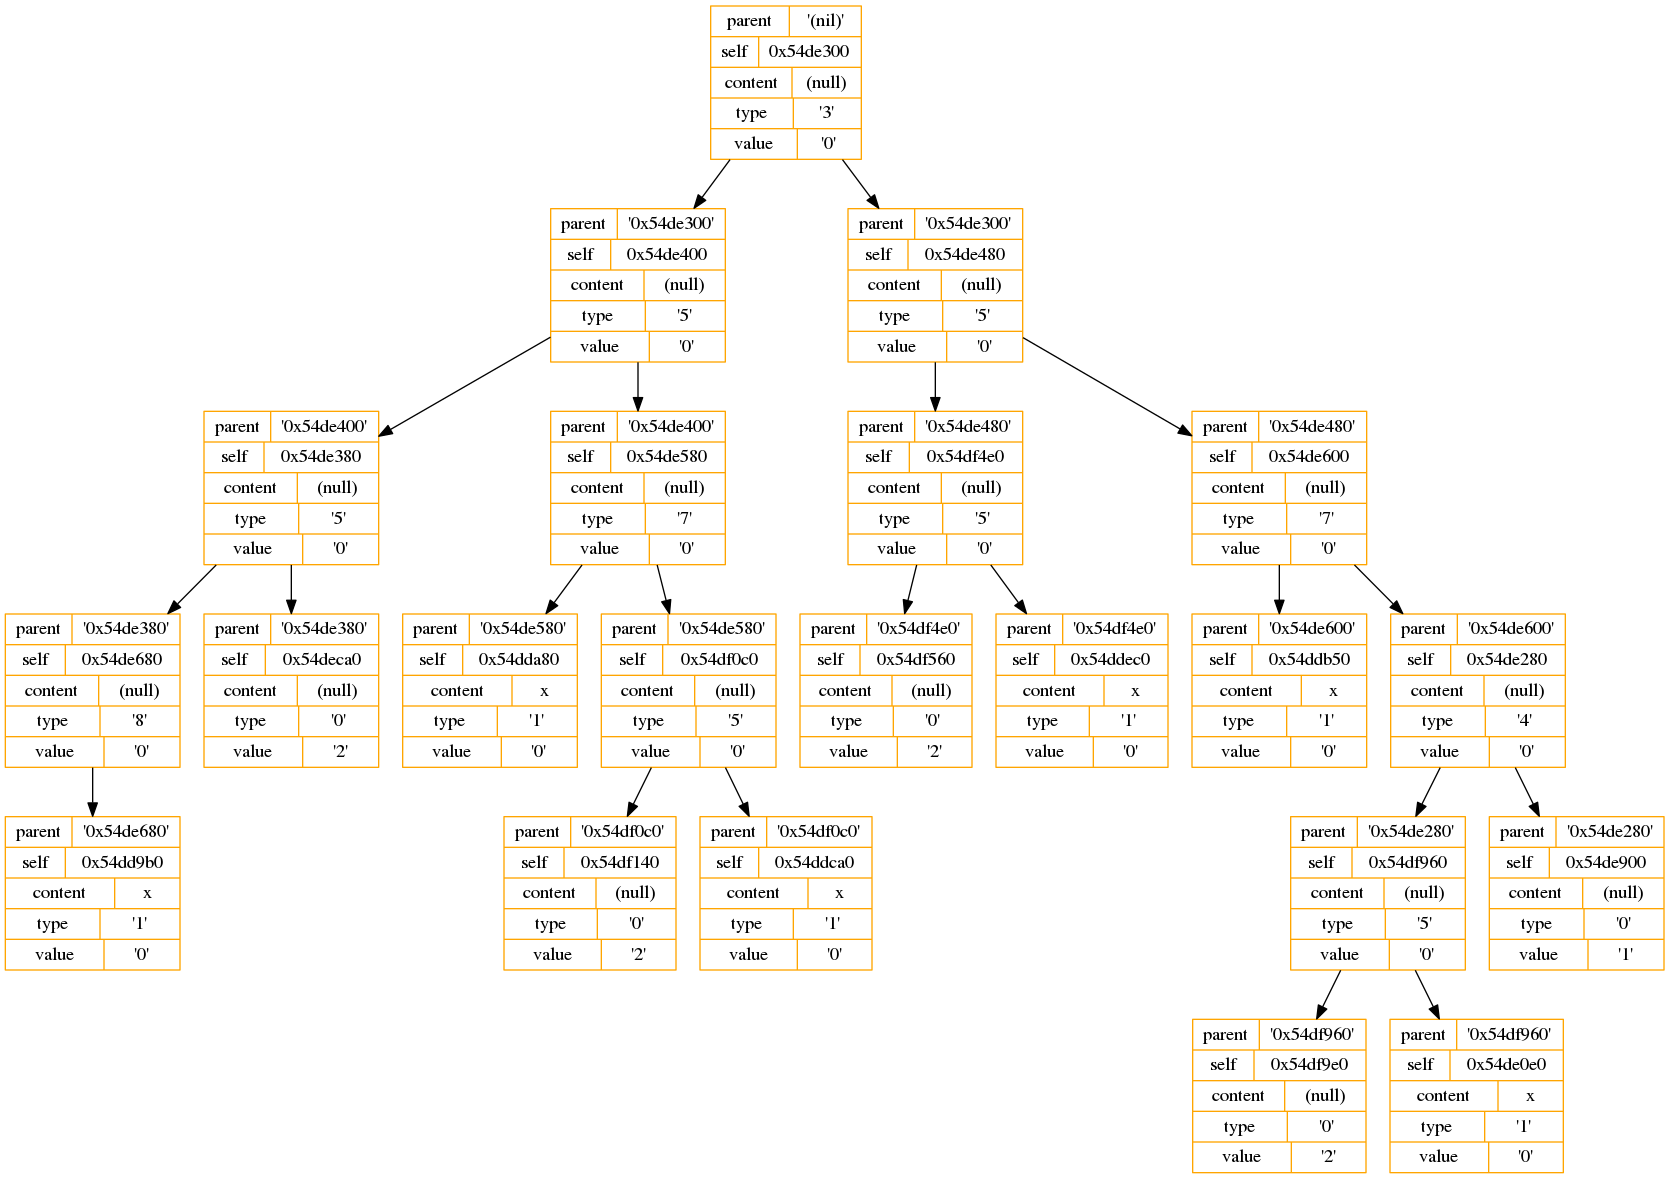
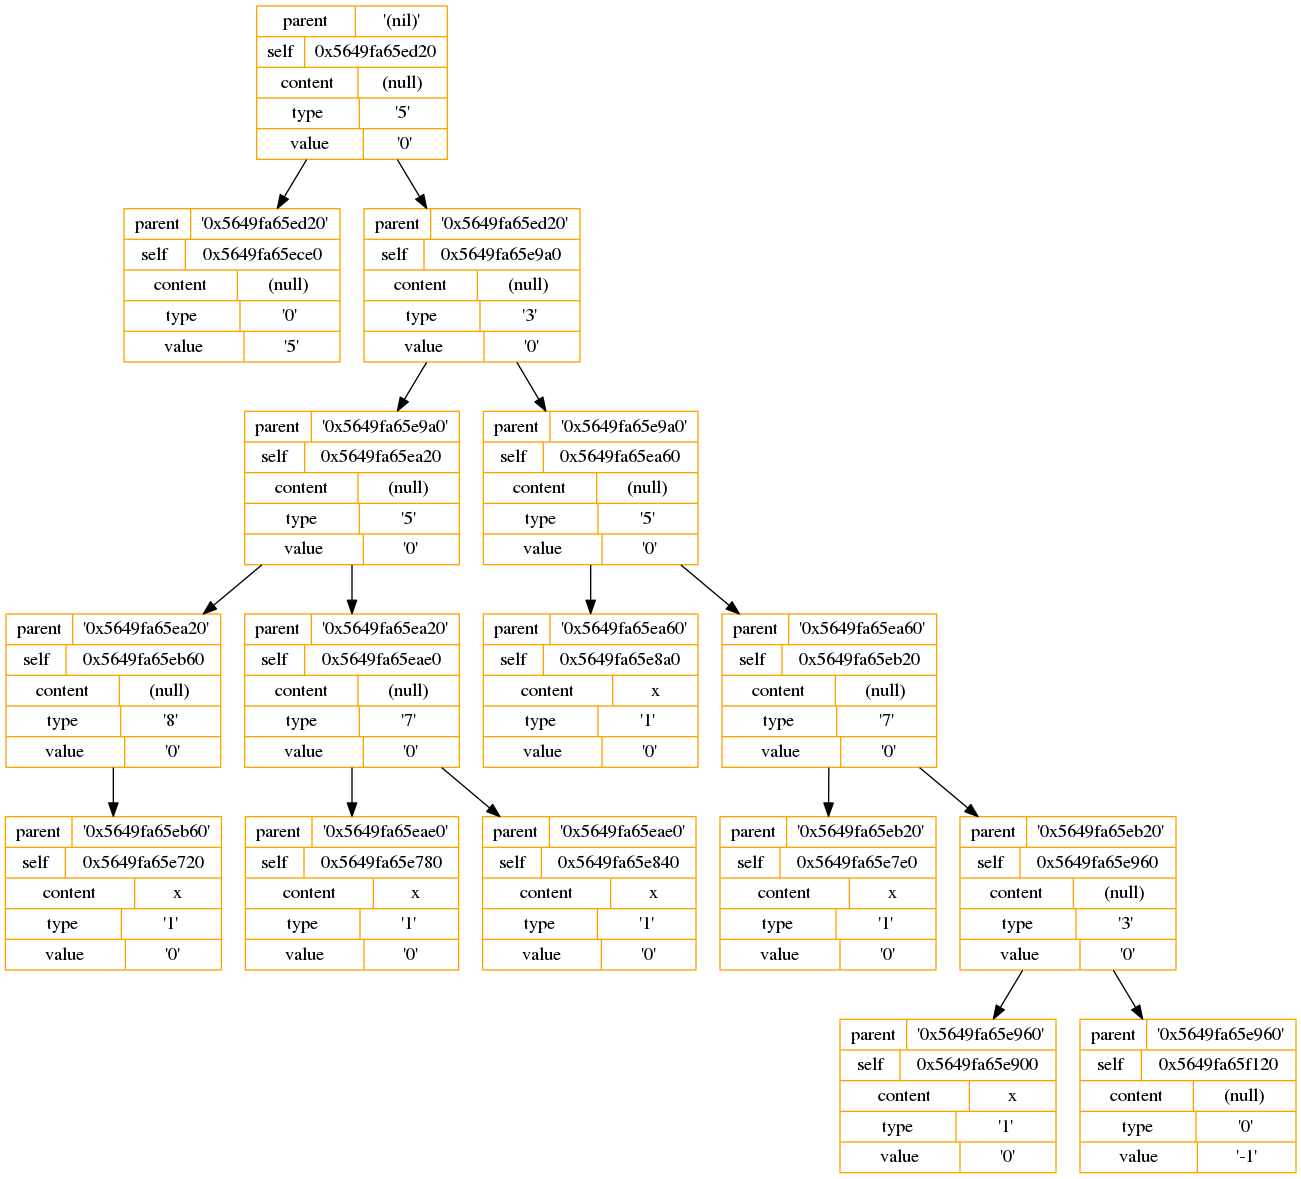
added new simplifications(5*4*x == 20*x)

Changed region(s): [[0.0, 0.0, 1.0, 1.0], [0.7071, 0.3359, 0.8301, 0.4885], [0.4304, 0.0, 0.5227, 0.1527]]

diff --git a/Differentiator/Differentiator.c b/Differentiator/Differentiator.c
@@ -25,8 +25,8 @@ int findDerivative(const parser *pars, calculator *calc)
     fclose(calc->texFile);
     calc->texFile = NULL;
 
-    system("pdflatex -output-directory Tex/ Tex/Diff_Super_Test");
-    system("sensible-browser Tex/Diff_Super_Test.pdf &");
+    system("pdflatex -output-directory ../Tex/ ../Tex/Diff_Super_Test");
+    system("sensible-browser ../Tex/Diff_Super_Test.pdf &");
 
     return 0;
 }
@@ -87,8 +87,8 @@ Node *findComplexDerivative(const Node *node, calculator *calc,
     assert(node);
 
     Node *mul = createTypeNode(Mul, &calc->tree);
-    connectLeft(mul, func(node, calc));
-    connectRight(mul, makeDerivativeStep(node, calc));
+    connectRight(mul, func(node, calc));
+    connectLeft(mul, makeDerivativeStep(node, calc));
     return mul;
 }
 
@@ -406,17 +406,60 @@ int simplifyExpression(calculator *calc)
     Tree *tree = &calc->tree;
     tree->eventFlag = 1;
 
+    prepareTreeForSimplification(tree->root);
     while (tree->eventFlag)
     {
         tree->eventFlag = 0;
+        visitTree(tree->root, simplifyTreeAddition);
+        visitTree(tree->root, simplifyTreeMultiplication);
         visitTree(tree->root, simplifyTreeNumerical);
-    }
 
+    }
     return 0;
 }
 
 
-int createListOfSimilarTerms(const Node *node, List *lst)
+int prepareTreeForSimplification(Node *node)
+{
+    assert(node);
+
+    if (node->left)
+        prepareTreeForSimplification(node->left);
+    if (node->right)
+        prepareTreeForSimplification(node->right);
+
+    switch (node->type)
+    {
+        case Sub:
+        {
+            node->type = Add;
+            Node *multiplyNode = createTypeNode(Mul, node->myTree);
+
+            connectRight(multiplyNode, node->right);
+            connectLeft(multiplyNode, createNumericalNode(Number, -1, node->myTree));
+            connectRight(node, multiplyNode);
+            return 1;
+        }
+        case Mul:
+        {
+            if (node->right->type == Number
+                && node->left->type != Number)
+            {
+                Node *keeper = node->left;
+                connectLeft(node, node->right);
+                connectRight(node, keeper);
+
+                return 1;
+            }
+            return 0;
+        }
+        default:
+            return 0;
+    }
+}
+
+
+int findSimilarTerms(const Node *node, List *lst)
 {
     assert(node);
     assert(lst);
@@ -425,15 +468,15 @@ int createListOfSimilarTerms(const Node *node, List *lst)
     {
         case Add:
         {
-            if (node->left->type != Add && node->left->type != Sub)
+            if (node->left->type != Add)
                 push(node->left, lst);
             else
-                createListOfSimilarTerms(node->left, lst);
+                findSimilarTerms(node->left, lst);
 
-            if (node->right->type != Add && node->right->type != Sub)
+            if (node->right->type != Add)
                 push(node->right, lst);
             else
-                createListOfSimilarTerms(node->right, lst);
+                findSimilarTerms(node->right, lst);
             return 1;
         }
         default:
@@ -442,11 +485,80 @@ int createListOfSimilarTerms(const Node *node, List *lst)
 }
 
 
-int simplifySimilarities(Node *node)
+int findNumericalMultipliers(const Node *node, List *lst)
+{
+    switch (node->type)
+    {
+        case Mul:
+        {
+            if (node->left->type == Number)
+                push(node->left, lst);
+            else
+                findNumericalMultipliers(node->left, lst);
+
+            if (node->right->type == Number)
+                push(node->right, lst);
+            else
+                findNumericalMultipliers(node->right, lst);
+            return 1;
+        }
+        default:
+            return 0;
+    }
+}
+
+
+int simplifyTreeMultiplication(Node *node)
 {
     List lst = {};
     constructList(&lst);
-    createListOfSimilarTerms(node, &lst);
+    findNumericalMultipliers(node, &lst);
+
+    if (lst.nodeCounter > 1)
+    {
+        node->myTree->eventFlag = 1;
+        listNode *iterator = lst.start;
+        Tree *tree = node->myTree;
+
+        double multiplier = 1;
+        while (iterator->next)
+        {
+            multiplier *= iterator->data->value;
+            iterator->data->value = 1;
+            iterator = iterator->next;
+        }
+
+        Node *mainNode = createTypeNode(Mul, tree);
+        connectLeft(mainNode, createNumericalNode(Number, multiplier, tree));
+
+        if (node->parent)
+            if (node->parent->left == node)
+            {
+                connectLeft(node->parent, mainNode);
+                connectRight(mainNode, node);
+            }
+            else
+            {
+                connectRight(node->parent, mainNode);
+                connectRight(mainNode, node);
+            }
+        else
+        {
+            node->myTree->root = mainNode;
+            connectRight(mainNode, node);
+        }
+    }
+
+    destructList(lst.start);
+    return 0;
+}
+
+
+int simplifyTreeAddition(Node *node)
+{
+    List lst = {};
+    constructList(&lst);
+    findSimilarTerms(node, &lst);
 
     if (lst.nodeCounter > 1)
     {
@@ -570,8 +682,6 @@ Node *mergeTrees(Node *main, Node *filial, double value)
 
 int simplifyTreeNumerical(Node *node)
 {
-    simplifySimilarities(node);
-
     switch (node->type)
     {
         case Mul:
@@ -966,9 +1076,12 @@ int printExpressionTex(const Node *node, FILE *outFileName)
 int eraseNode(listNode *node)
 {
     assert(node);
-    node->prev->next = node->next;
-    node->next->prev = node->prev;
+    if (node->prev)
+        node->prev->next = node->next;
+    if (node->next)
+        node->next->prev = node->prev;
 
+    node->parent->nodeCounter--;
     free(node);
     return 0;
 }
@@ -984,7 +1097,7 @@ int constructList(List *lst)
     lst->current->prev = NULL;
     lst->current->data = NULL;
 
-    lst->nodeCounter = 1;
+    lst->nodeCounter = 0;
     return 0;
 }
 

diff --git a/Differentiator/Differentiator.h b/Differentiator/Differentiator.h
@@ -9,9 +9,9 @@
 #include "../Commands/Commands.h"
 
 
-static const char outFileTex[] = "Tex/Diff_Super_Test";
-static const char outFilenameForDotDump[] = "picture/dotDump.txt";
-static const char outFilenameForDotPrint[] = "picture/dotPrint.txt";
+static const char outFileTex[] = "../Tex/Diff_Super_Test";
+static const char outFilenameForDotDump[] = "../picture/dotDump.txt";
+static const char outFilenameForDotPrint[] = "../picture/dotPrint.txt";
 
 #define NUMBER_OF_COMMENTS 7
 static const char *comments[] = {"After mental calculation: ",
@@ -41,16 +41,17 @@ typedef struct listNode
     List *parent;
 } listNode;
 
+int simplifyTreeMultiplication(Node *node);
 
-Node *mergeTrees(Node *main, Node *second, double value);
-
-int createListOfSimilarTerms(const Node *node, List *lst);
+int simplifyTreeAddition(Node *node);
 
 int simplifyTreeNumerical(Node *node);
 
-int simplifySimilarities(Node *node);
-
 int simplifyExpression(calculator *cal);
+
+int findSimilarTerms(const Node *node, List *lst);
+
+int prepareTreeForSimplification(Node *node);
 
 Node *logDerivative(const Node *node, calculator *calc);
 
@@ -67,6 +68,8 @@ Node *mulDerivative(const Node *node, calculator *calc);
 Node *divDerivative(const Node *node, calculator *calc);
 
 Node *expDerivative(const Node *node, calculator *calc);
+
+Node *mergeTrees(Node *main, Node *second, double value);
 
 Node *makeDerivativeStep(const Node *node, calculator *calc);
 

diff --git a/Differentiator/main.c b/Differentiator/main.c
@@ -1,4 +1,3 @@
-
 #include "Differentiator.h"
 #include "../RecursiveDescent/Descent.h"
 
@@ -15,7 +14,7 @@ int main()
     findDerivative(&pars, &calc);
 
     printTree(&calc.tree, outFilenameForDotDump, dumpRecNode);
-    system("dot -Tpng picture/dotDump.txt -o picture/Dump.png");
+    system("dot -Tpng ../picture/dotDump.txt -o ../picture/Dump.png");
 
     destructParser(&pars);
     destructCalculator(&calc);

diff --git a/RecursiveDescent/Descent.h b/RecursiveDescent/Descent.h
@@ -12,7 +12,7 @@
 #include "../Tree_t/Tree.h"
 #include "../Commands/Commands.h"
 
-static const char inputFilename[] = "base/base.txt";
+static const char inputFilename[] = "../base/base.txt";
 
 enum
 {

diff --git a/Tree_t/Tree.c b/Tree_t/Tree.c
@@ -32,6 +32,7 @@ void connectLeft(Node *mainNode, Node *leftNode)
 
 void visitTree(Node *node, int func(Node *node))
 {
+
     if (node->left)
         visitTree(node->left, func);
     if (node->right)
